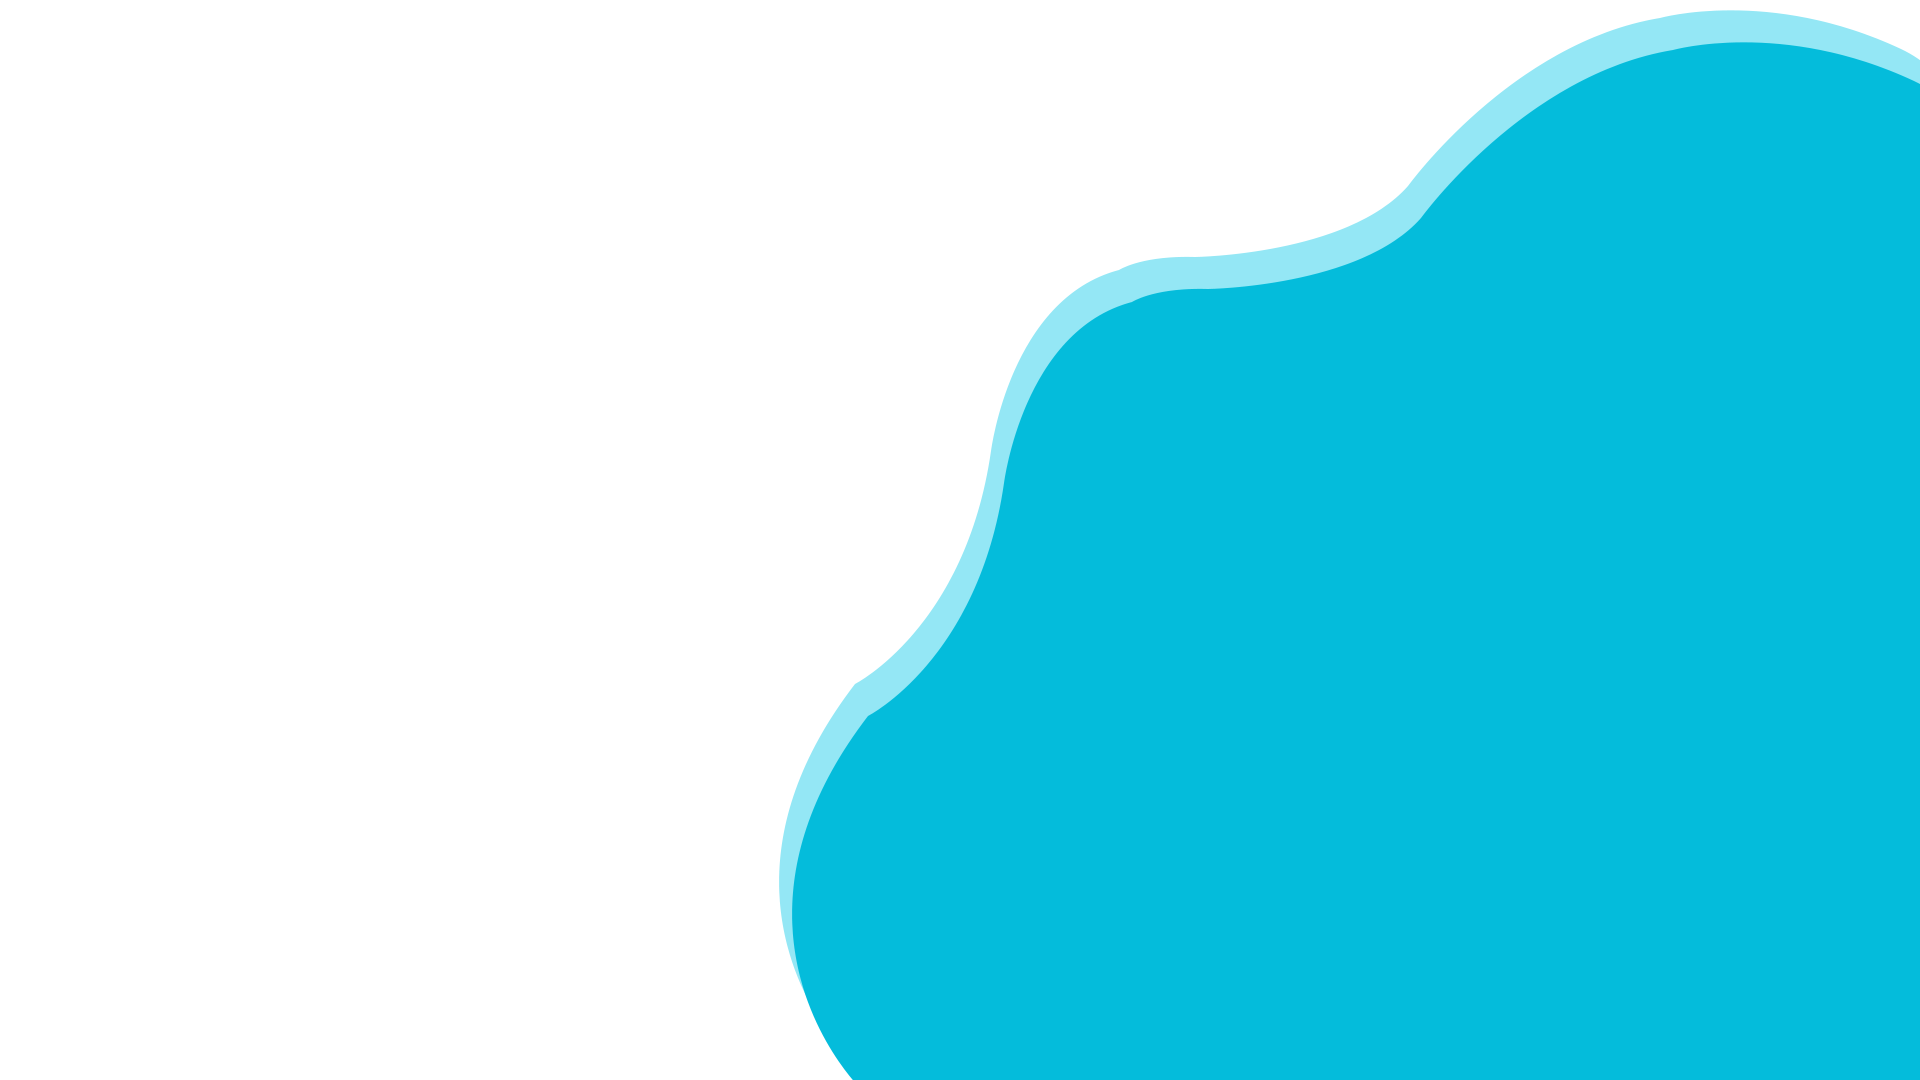
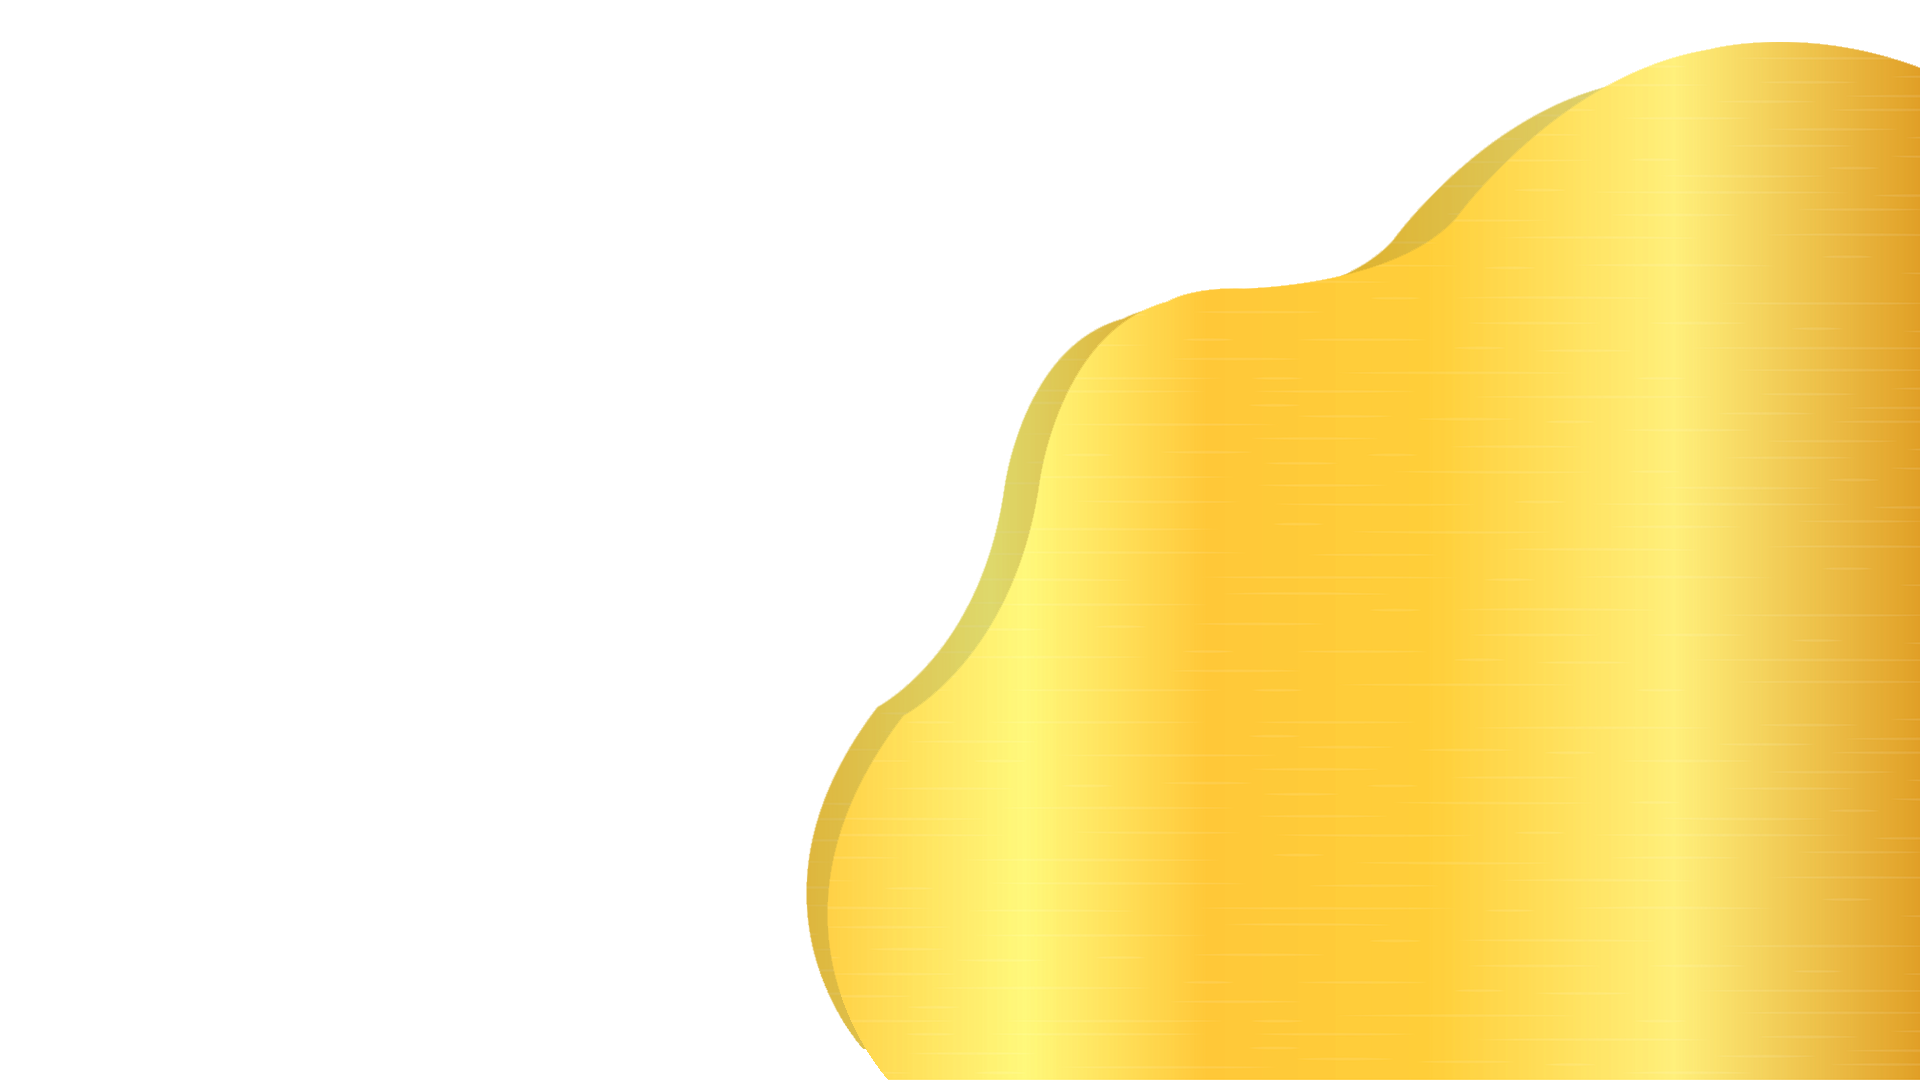
mengganti warna

diff --git a/index.html b/index.html
@@ -59,24 +59,24 @@
         <div class="col-md-6 col-sm-12 d-flex align-items-center">
           <div class="row">
             <h1 class="font-dancing col-12">Kami Mengundang Anda</h1>
-            <h1 class="col-12 fw-bold text-primary">Jakarta Convention Center Festival</h1>
+            <h1 class="col-12 fw-bold text-warning">Jakarta Convention Center Festival</h1>
             <h5>Sabtu, 24 Agustus 2024</h5>
             <p class="col-12 pt-3">Akan Berlangsung Dalam</p>
             <div class="col-12 d-flex text-center" style="gap: 20px;">
               <div class="hari">
-                <h1 class="bg-primary text-light rounded-3 p-3" id="hari"></h1>
+                <h1 class="bg-warning text-light rounded-3 p-3" id="hari"></h1>
                 <p>Hari</p>
               </div>
               <div class="jam">
-                <h1 class="bg-primary text-light rounded-3 p-3" id="jam"></h1>
+                <h1 class="bg-warning text-light rounded-3 p-3" id="jam"></h1>
                 <p>Jam</p>
               </div>
               <div class="menit">
-                <h1 class="bg-primary text-light rounded-3 p-3" id="menit"></h1>
+                <h1 class="bg-warning text-light rounded-3 p-3" id="menit"></h1>
                 <p>Menit</p>
               </div>
               <div class="detik">
-                <h1 class="bg-primary text-light rounded-3 p-3" id="detik"></h1>
+                <h1 class="bg-warning text-light rounded-3 p-3" id="detik"></h1>
                 <p>Detik</p>
               </div>
             </div>
@@ -155,13 +155,13 @@
   <!-- ayat end -->
   <svg id="wave" class="bg-wakwak" style="transform: rotate(0deg); transition: 0.3s" viewBox="0 0 1440 160"
     version="1.1" xmlns="http://www.w3.org/2000/svg">
-    <path fill="#05bcdb"
+    <path fill="#ffc939"
       d="M0,48L60,50.7C120,53,240,59,360,72C480,85,600,107,720,112C840,117,960,107,1080,88C1200,69,1320,43,1440,26.7C1560,11,1680,5,1800,8C1920,11,2040,21,2160,21.3C2280,21,2400,11,2520,18.7C2640,27,2760,53,2880,56C3000,59,3120,37,3240,32C3360,27,3480,37,3600,58.7C3720,80,3840,112,3960,120C4080,128,4200,112,4320,101.3C4440,91,4560,85,4680,85.3C4800,85,4920,91,5040,77.3C5160,64,5280,32,5400,16C5520,0,5640,0,5760,0C5880,0,6000,0,6120,0C6240,0,6360,0,6480,18.7C6600,37,6720,75,6840,85.3C6960,96,7080,80,7200,66.7C7320,53,7440,43,7560,42.7C7680,43,7800,53,7920,56C8040,59,8160,53,8280,53.3C8400,53,8520,59,8580,61.3L8640,64L8640,160L8580,160C8520,160,8400,160,8280,160C8160,160,8040,160,7920,160C7800,160,7680,160,7560,160C7440,160,7320,160,7200,160C7080,160,6960,160,6840,160C6720,160,6600,160,6480,160C6360,160,6240,160,6120,160C6000,160,5880,160,5760,160C5640,160,5520,160,5400,160C5280,160,5160,160,5040,160C4920,160,4800,160,4680,160C4560,160,4440,160,4320,160C4200,160,4080,160,3960,160C3840,160,3720,160,3600,160C3480,160,3360,160,3240,160C3120,160,3000,160,2880,160C2760,160,2640,160,2520,160C2400,160,2280,160,2160,160C2040,160,1920,160,1800,160C1680,160,1560,160,1440,160C1320,160,1200,160,1080,160C960,160,840,160,720,160C600,160,480,160,360,160C240,160,120,160,60,160L0,160Z">
     </path>
   </svg>
   <svg id="wave" class="bg-wakwak" style="transform: rotate(180deg); transition: 0.3s" viewBox="0 0 1440 160"
     version="1.1" xmlns="http://www.w3.org/2000/svg">
-    <path fill="#05bcdb"
+    <path fill="#ffc939"
       d="M0,48L60,50.7C120,53,240,59,360,72C480,85,600,107,720,112C840,117,960,107,1080,88C1200,69,1320,43,1440,26.7C1560,11,1680,5,1800,8C1920,11,2040,21,2160,21.3C2280,21,2400,11,2520,18.7C2640,27,2760,53,2880,56C3000,59,3120,37,3240,32C3360,27,3480,37,3600,58.7C3720,80,3840,112,3960,120C4080,128,4200,112,4320,101.3C4440,91,4560,85,4680,85.3C4800,85,4920,91,5040,77.3C5160,64,5280,32,5400,16C5520,0,5640,0,5760,0C5880,0,6000,0,6120,0C6240,0,6360,0,6480,18.7C6600,37,6720,75,6840,85.3C6960,96,7080,80,7200,66.7C7320,53,7440,43,7560,42.7C7680,43,7800,53,7920,56C8040,59,8160,53,8280,53.3C8400,53,8520,59,8580,61.3L8640,64L8640,160L8580,160C8520,160,8400,160,8280,160C8160,160,8040,160,7920,160C7800,160,7680,160,7560,160C7440,160,7320,160,7200,160C7080,160,6960,160,6840,160C6720,160,6600,160,6480,160C6360,160,6240,160,6120,160C6000,160,5880,160,5760,160C5640,160,5520,160,5400,160C5280,160,5160,160,5040,160C4920,160,4800,160,4680,160C4560,160,4440,160,4320,160C4200,160,4080,160,3960,160C3840,160,3720,160,3600,160C3480,160,3360,160,3240,160C3120,160,3000,160,2880,160C2760,160,2640,160,2520,160C2400,160,2280,160,2160,160C2040,160,1920,160,1800,160C1680,160,1560,160,1440,160C1320,160,1200,160,1080,160C960,160,840,160,720,160C600,160,480,160,360,160C240,160,120,160,60,160L0,160Z">
     </path>
   </svg>
@@ -194,8 +194,8 @@
     version="1.1" xmlns="http://www.w3.org/2000/svg">
     <defs>
       <linearGradient id="sw-gradient-0" x1="0" x2="0" y1="1" y2="0">
-        <stop stop-color="#05bcdb" stop-opacity="0.8" offset="0%"></stop>
-        <stop stop-color="#05bcdb" stop-opacity="1" offset="100%"></stop>
+        <stop stop-color="#ffc939" stop-opacity="0.8" offset="0%"></stop>
+        <stop stop-color="#ffc939" stop-opacity="1" offset="100%"></stop>
       </linearGradient>
     </defs>
     <path style="transform: translate(0, 0px); opacity: 1" fill="url(#sw-gradient-0)"
@@ -203,8 +203,8 @@
     </path>
     <defs>
       <linearGradient id="sw-gradient-1" x1="0" x2="0" y1="1" y2="0">
-        <stop stop-color="#05bcdb" stop-opacity="0.74" offset="0%"></stop>
-        <stop stop-color="#05bcdb" stop-opacity="1" offset="100%"></stop>
+        <stop stop-color="#ffc939" stop-opacity="0.74" offset="0%"></stop>
+        <stop stop-color="#ffc939" stop-opacity="1" offset="100%"></stop>
       </linearGradient>
     </defs>
     <path style="transform: translate(0, 50px); opacity: 0.9" fill="url(#sw-gradient-1)"
@@ -212,8 +212,8 @@
     </path>
     <defs>
       <linearGradient id="sw-gradient-2" x1="0" x2="0" y1="1" y2="0">
-        <stop stop-color="#05bcdb" stop-opacity="0.8" offset="0%"></stop>
-        <stop stop-color="#05bcdb" stop-opacity="1" offset="100%"></stop>
+        <stop stop-color="#ffc939" stop-opacity="0.8" offset="0%"></stop>
+        <stop stop-color="#ffc939" stop-opacity="1" offset="100%"></stop>
       </linearGradient>
     </defs>
     <path style="transform: translate(0, 100px); opacity: 0.8" fill="url(#sw-gradient-2)"
@@ -292,8 +292,8 @@
     version="1.1" xmlns="http://www.w3.org/2000/svg">
     <defs>
       <linearGradient id="sw-gradient-0" x1="0" x2="0" y1="1" y2="0">
-        <stop stop-color="#05bcdb" stop-opacity="0.84" offset="0%"></stop>
-        <stop stop-color="#05bcdb" stop-opacity="1" offset="100%"></stop>
+        <stop stop-color="#ffc939" stop-opacity="0.84" offset="0%"></stop>
+        <stop stop-color="#ffc939" stop-opacity="1" offset="100%"></stop>
       </linearGradient>
     </defs>
     <path style="transform: translate(0, 0px); opacity: 1" fill="url(#sw-gradient-0)"
@@ -301,8 +301,8 @@
     </path>
     <defs>
       <linearGradient id="sw-gradient-1" x1="0" x2="0" y1="1" y2="0">
-        <stop stop-color="#05bcdb" stop-opacity="0.74" offset="0%"></stop>
-        <stop stop-color="#05bcdb" stop-opacity="1" offset="100%"></stop>
+        <stop stop-color="#ffc939" stop-opacity="0.74" offset="0%"></stop>
+        <stop stop-color="#ffc939" stop-opacity="1" offset="100%"></stop>
       </linearGradient>
     </defs>
     <path style="transform: translate(0, 50px); opacity: 0.9" fill="url(#sw-gradient-1)"
@@ -310,8 +310,8 @@
     </path>
     <defs>
       <linearGradient id="sw-gradient-2" x1="0" x2="0" y1="1" y2="0">
-        <stop stop-color="#05bcdb" stop-opacity="0.8" offset="0%"></stop>
-        <stop stop-color="#05bcdb" stop-opacity="1" offset="100%"></stop>
+        <stop stop-color="#ffc939" stop-opacity="0.8" offset="0%"></stop>
+        <stop stop-color="#ffc939" stop-opacity="1" offset="100%"></stop>
       </linearGradient>
     </defs>
     <path style="transform: translate(0, 100px); opacity: 0.8" fill="url(#sw-gradient-2)"
@@ -425,8 +425,8 @@
     version="1.1" xmlns="http://www.w3.org/2000/svg">
     <defs>
       <linearGradient id="sw-gradient-0" x1="0" x2="0" y1="1" y2="0">
-        <stop stop-color="#05bcdb" stop-opacity="0.84" offset="0%"></stop>
-        <stop stop-color="#05bcdb" stop-opacity="1" offset="100%"></stop>
+        <stop stop-color="#ffc939" stop-opacity="0.84" offset="0%"></stop>
+        <stop stop-color="#ffc939" stop-opacity="1" offset="100%"></stop>
       </linearGradient>
     </defs>
     <path style="transform: translate(0, 0px); opacity: 1" fill="url(#sw-gradient-0)"
@@ -434,8 +434,8 @@
     </path>
     <defs>
       <linearGradient id="sw-gradient-1" x1="0" x2="0" y1="1" y2="0">
-        <stop stop-color="#05bcdb" stop-opacity="0.74" offset="0%"></stop>
-        <stop stop-color="#05bcdb" stop-opacity="1" offset="100%"></stop>
+        <stop stop-color="#ffc939" stop-opacity="0.74" offset="0%"></stop>
+        <stop stop-color="#ffc939" stop-opacity="1" offset="100%"></stop>
       </linearGradient>
     </defs>
     <path style="transform: translate(0, 50px); opacity: 0.9" fill="url(#sw-gradient-1)"
@@ -443,8 +443,8 @@
     </path>
     <defs>
       <linearGradient id="sw-gradient-2" x1="0" x2="0" y1="1" y2="0">
-        <stop stop-color="#05bcdb" stop-opacity="0.8" offset="0%"></stop>
-        <stop stop-color="#05bcdb" stop-opacity="1" offset="100%"></stop>
+        <stop stop-color="#ffc939" stop-opacity="0.8" offset="0%"></stop>
+        <stop stop-color="#ffc939" stop-opacity="1" offset="100%"></stop>
       </linearGradient>
     </defs>
     <path style="transform: translate(0, 100px); opacity: 0.8" fill="url(#sw-gradient-2)"

diff --git a/css/style.css b/css/style.css
@@ -65,7 +65,7 @@ body.no-scroll {
 }
 
 .bg-berem {
-  background-color: #05bcdb;
+  background-color: #ffc939;
 }
 
 .text-berem {
